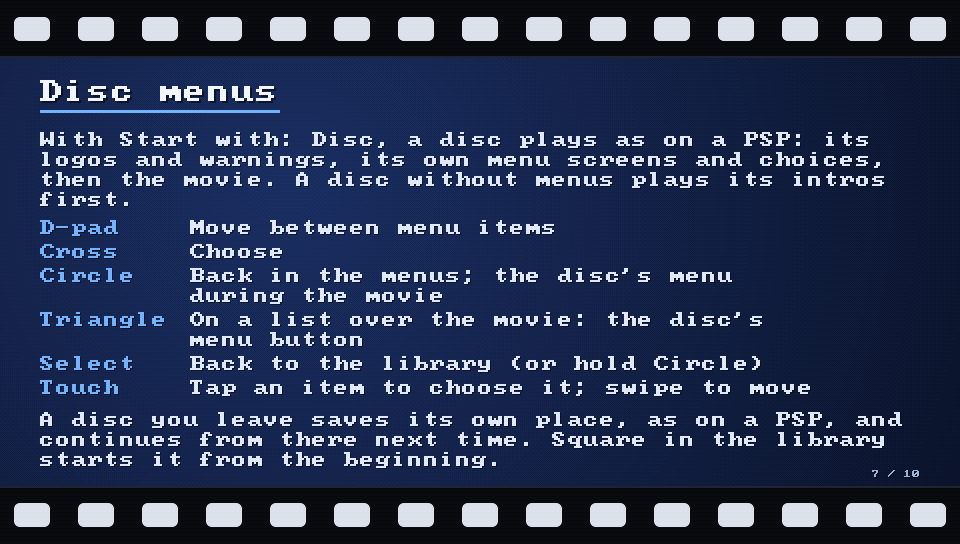
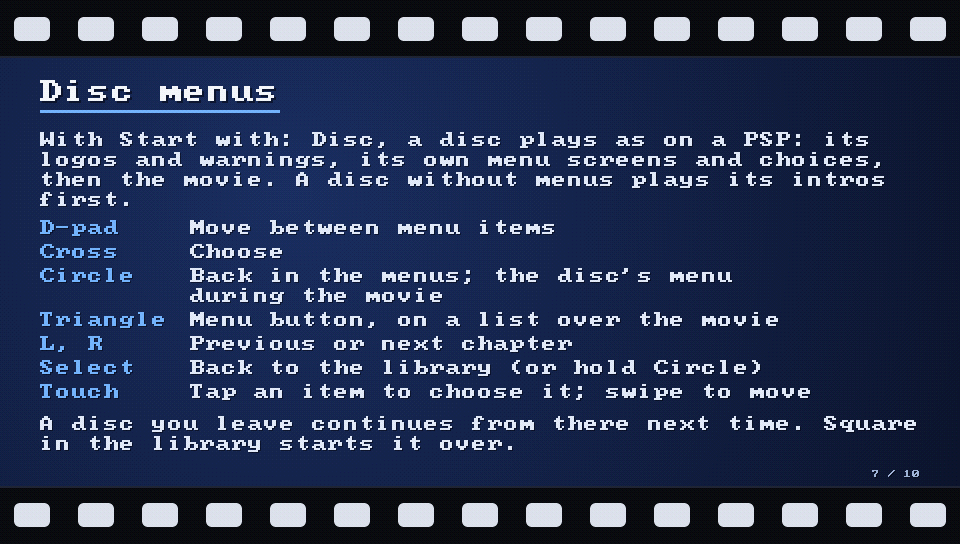
Disc mode: L and R step through chapters during the movie
With the disc's menus the player dropped L and R, since switching titles
would leave the menus behind. They now go to the previous or next
chapter, as Down and Up do. In Movie mode they still switch titles.

Changed region(s): [[0.0312, 0.5625, 0.9375, 0.875]]

diff --git a/tools/make_manual.py b/tools/make_manual.py
@@ -199,12 +199,12 @@ def main():
            'screens and choices, then the movie. A disc without menus plays its intros first.')
     p.rows([('D-pad', 'Move between menu items'), ('Cross', 'Choose'),
             ('Circle', 'Back in the menus; the disc\'s menu during the movie'),
-            ('Triangle', 'On a list over the movie: the disc\'s menu button'),
+            ('Triangle', 'Menu button, on a list over the movie'),
+            ('L, R', 'Previous or next chapter'),
             ('Select', 'Back to the library (or hold Circle)'),
             ('Touch', 'Tap an item to choose it; swipe to move')], key_w=150)
     p.y += 8
-    p.para('A disc you leave saves its own place, as on a PSP, and continues from there next time. '
-           'Square in the library starts it from the beginning.')
+    p.para('A disc you leave continues from there next time. Square in the library starts it over.')
     p.save(out, 7)
 
     p = Page(base, 8, 'Interactive movies (UMD-PG)')

diff --git a/src/app/player.c b/src/app/player.c
@@ -1450,8 +1450,12 @@ static void play_input(player *p, uint32_t pressed)
         p->menu_request = 1;
         return;
     }
-    if (p->menu_mode)
+    /* With the disc's menus, L and R step through chapters, as Down and Up do: switching
+       titles would leave the menus behind. */
+    if (p->menu_mode && (pressed & (PLAT_BTN_L | PLAT_BTN_R))) {
+        seek_chapter(p, (pressed & PLAT_BTN_R) ? 1 : -1);
         pressed &= ~(PLAT_BTN_L | PLAT_BTN_R);
+    }
     if (p->intro) {
         if (pressed & (PLAT_BTN_CROSS | PLAT_BTN_START)) {
             p->skipped = 1;

diff --git a/docs/manual.md b/docs/manual.md
@@ -102,6 +102,7 @@ With "Start with: Disc", UMD Player runs the disc's own menus: the menu screens,
 | ✕ | Choose the item | Pause or play |
 | ○ | Back, as the disc defines it | Open the disc's menu |
 | △ | On a list shown over the movie, the disc's menu (the PSP's menu button). Elsewhere in the menus, nothing. | Options panel |
+| L, R | | Previous or next chapter |
 | Select | Back to the library | Back to the library |
 | Touch | Tap an item to choose it. Swipe to move, as with the D-pad. | As in "Watching a movie" |
 

diff --git a/CHANGELOG.md b/CHANGELOG.md
@@ -1,5 +1,9 @@
 # Changelog
 
+## Unreleased
+
+- Disc mode: L and R (Q and E on a keyboard) go to the previous or next chapter during the movie, as Down and Up do. They did nothing; with "Start with: Movie" they still switch titles.
+
 ## v0.6.4 (2026-10-16)
 
 - "Start with: Disc" is the default: a disc plays as on a PSP, with its logos, warnings and menus. A saved "Movie" setting is kept.
